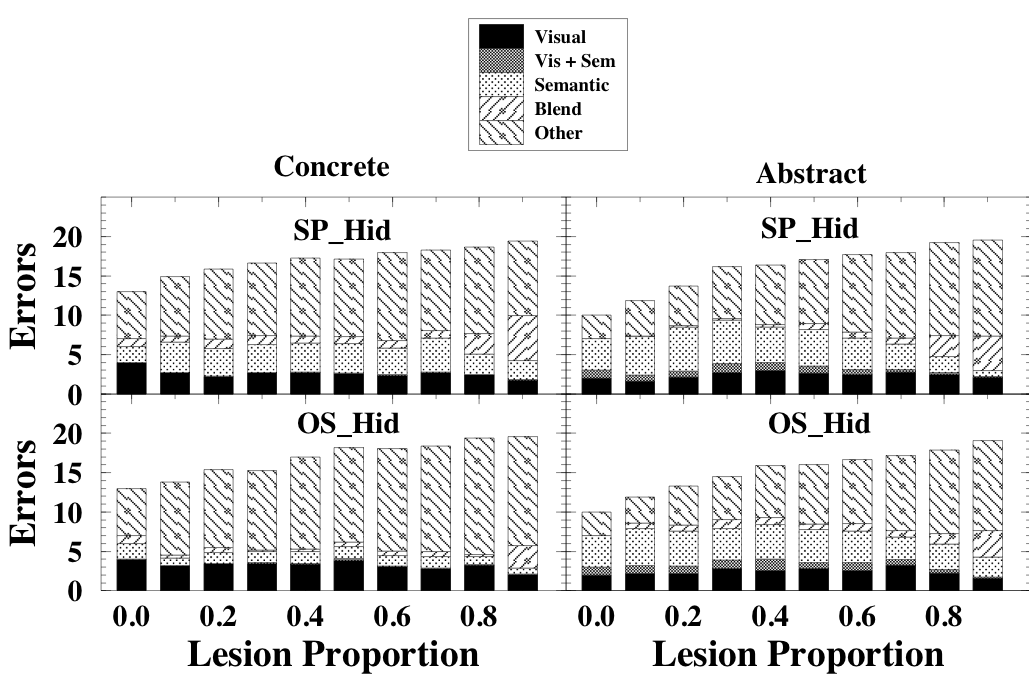
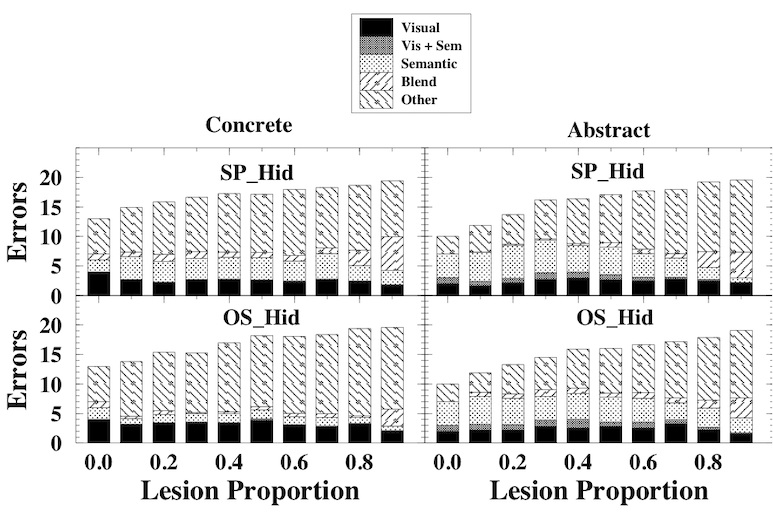
add references, update one fig size

diff --git a/ch9/dyslex/README.md b/ch9/dyslex/README.md
@@ -114,3 +114,7 @@ Interestingly, as the level of damage increases, the model makes increasingly mo
 
 This case of partial direct pathway damage with a completely lesioned semantic pathway produces mostly visual and "other" errors.
 
+# References
+
+Plaut, D. C., & Shallice, T. (1993). Deep dyslexia: A case study of connectionist neuropsychology. Cognitive Neuropsychology, 10(5), 377–500.
+
